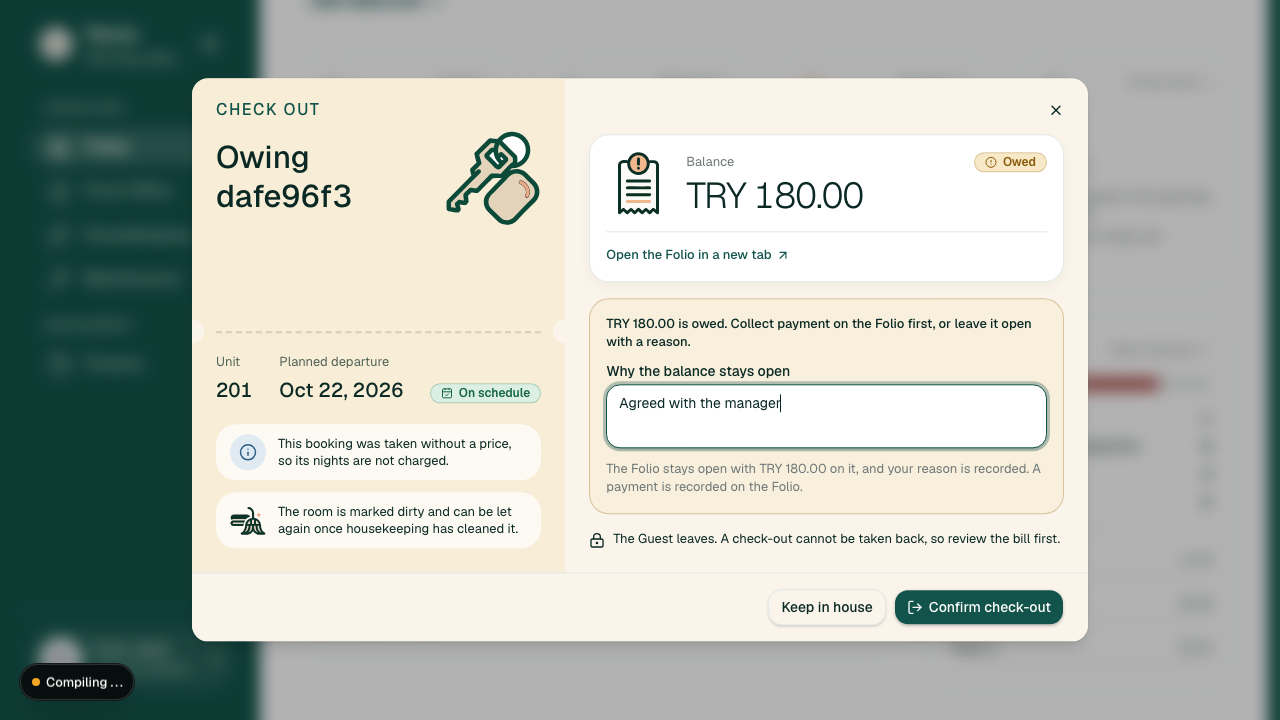
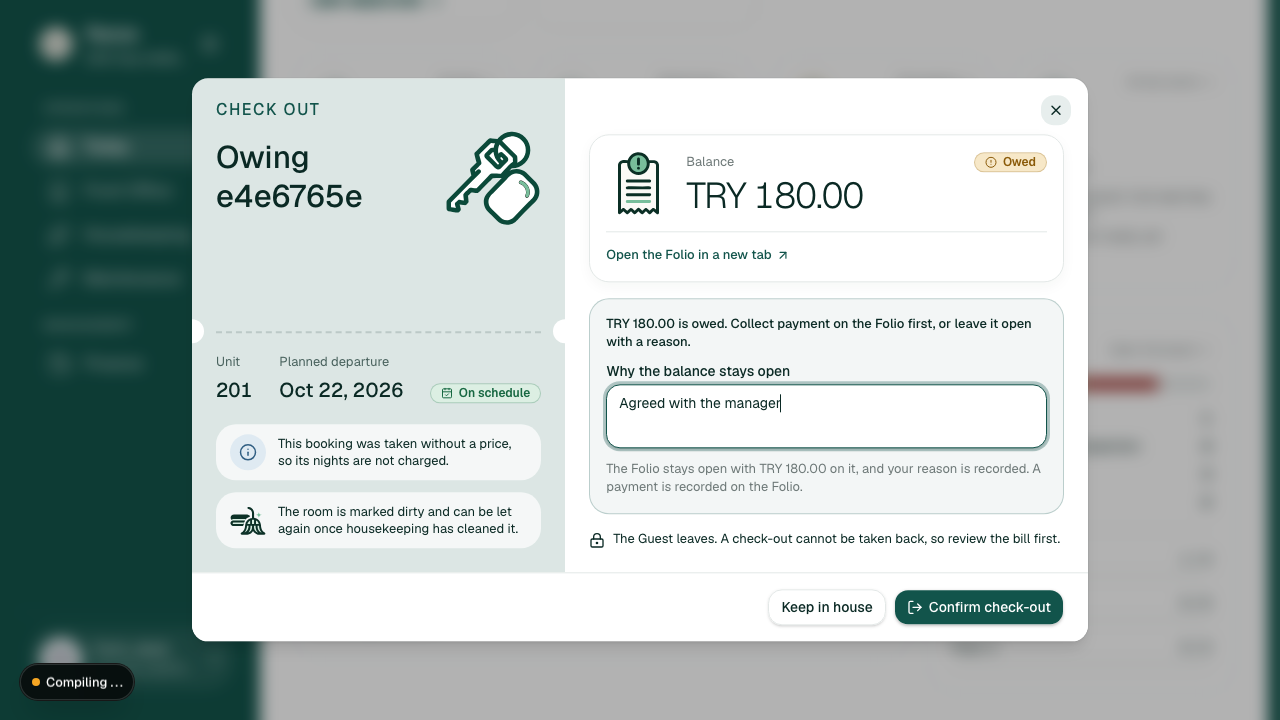
feat(check-out): the review is green and white, with no beige in the page, the ticket or the drawings
The ticket is a tint of the primary green on a white page; the drawings' cream
and peach fills are mint and green, and the owes block and early-departure
acknowledgement take a green tint where they had an amber one. The Owed badge
and the overdue notice keep their amber.

Changed region(s): [[0.125, 0.0917, 0.8438, 0.7944]]

diff --git a/apps/operator-workspace/src/features/front-office/components/check-out-dialog.tsx b/apps/operator-workspace/src/features/front-office/components/check-out-dialog.tsx
@@ -155,7 +155,7 @@ export function CheckOutDialog({
         </Button>
       </DialogTrigger>
 
-      <DialogContent className="gap-0 bg-accent-soft p-0 sm:max-w-lg md:max-w-[min(56rem,calc(100%-2rem))]">
+      <DialogContent className="gap-0 p-0 sm:max-w-lg md:max-w-[min(56rem,calc(100%-2rem))] [&>[data-slot=dialog-close]]:bg-primary/10">
         <form
           action={act}
           className="grid md:grid-cols-[minmax(0,5fr)_minmax(0,7fr)]"
@@ -299,7 +299,7 @@ export function CheckOutDialog({
 
             {departure.early && departure.endsOn ? (
               <Label
-                className="flex cursor-pointer items-center gap-3 rounded-xl border border-warning/30 bg-warning-soft/40 px-4 py-3 leading-snug"
+                className="flex cursor-pointer items-center gap-3 rounded-xl border border-primary/25 bg-primary/5 px-4 py-3 leading-snug"
                 htmlFor={`early-${departure.stayId}`}
               >
                 <Checkbox
@@ -322,7 +322,7 @@ export function CheckOutDialog({
             ) : null}
 
             {owes ? (
-              <div className="grid gap-3 rounded-xl border border-warning/30 bg-warning-soft/40 p-4">
+              <div className="grid gap-3 rounded-xl border border-primary/25 bg-primary/5 p-4">
                 <p className="m-0 text-step--1 font-medium">
                   {t("checkOutOwesFirst", { balance })}
                 </p>
@@ -367,7 +367,7 @@ export function CheckOutDialog({
             </DialogDescription>
           </div>
 
-          <DialogFooter className="bottom-0 mx-0 mb-0 border-t bg-accent-soft px-6 py-4 md:col-span-2">
+          <DialogFooter className="bottom-0 mx-0 mb-0 border-t px-6 py-4 md:col-span-2">
             <DialogClose asChild>
               <Button type="button" variant="outline">
                 {t("keepInHouse")}

diff --git a/apps/operator-workspace/src/features/front-office/components/check-out-parts.tsx b/apps/operator-workspace/src/features/front-office/components/check-out-parts.tsx
@@ -66,7 +66,7 @@ export function DepartureTicket({
   unitLabel: string;
 }) {
   return (
-    <div className="relative flex flex-col overflow-hidden bg-warning-soft/60">
+    <div className="relative flex flex-col overflow-hidden bg-primary/15">
       <div className="flex flex-1 items-start gap-4 px-6 pt-4 pb-6">
         <div className="grid min-w-0 flex-1 gap-3">
           <div className="flex min-h-8 items-center pe-10">
@@ -83,8 +83,8 @@ export function DepartureTicket({
 
       <div aria-hidden="true" className="relative">
         <div className="mx-6 border-t-2 border-dashed border-foreground/15" />
-        <span className="absolute start-0 top-0 size-6 -translate-x-1/2 -translate-y-1/2 rounded-full bg-accent-soft rtl:translate-x-1/2" />
-        <span className="absolute end-0 top-0 size-6 translate-x-1/2 -translate-y-1/2 rounded-full bg-accent-soft rtl:-translate-x-1/2" />
+        <span className="absolute start-0 top-0 size-6 -translate-x-1/2 -translate-y-1/2 rounded-full bg-popover rtl:translate-x-1/2" />
+        <span className="absolute end-0 top-0 size-6 translate-x-1/2 -translate-y-1/2 rounded-full bg-popover rtl:-translate-x-1/2" />
       </div>
 
       <dl className="m-0 flex flex-wrap items-end justify-between gap-x-6 gap-y-3 px-6 pt-5 pb-5">
